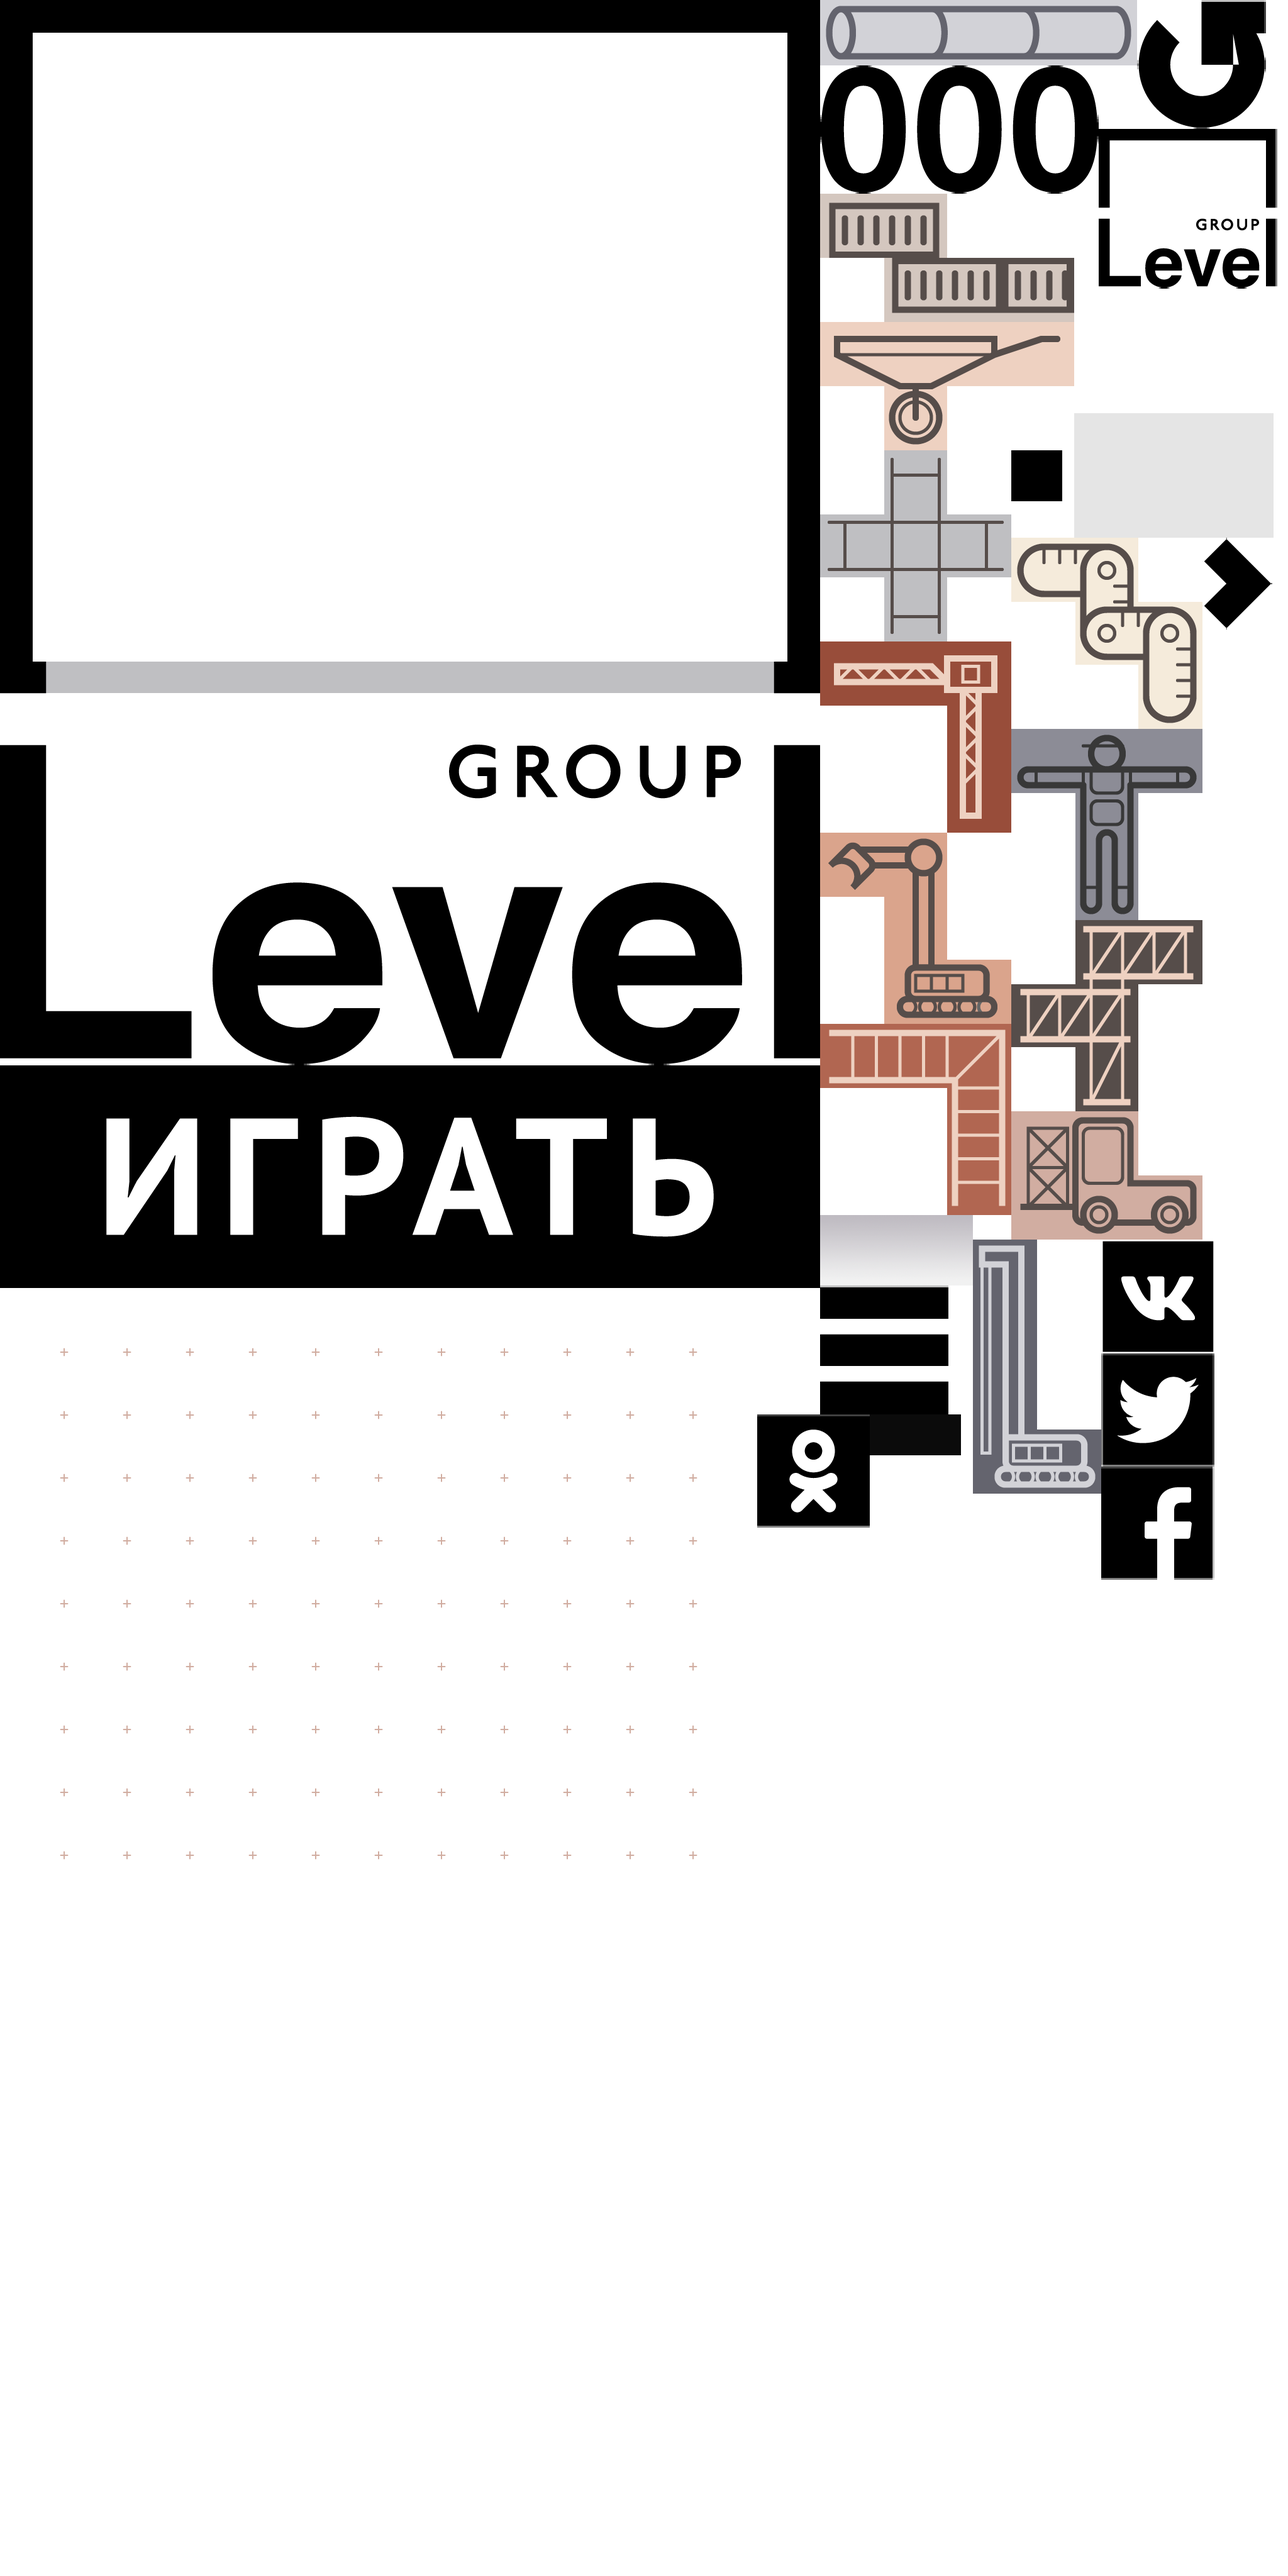
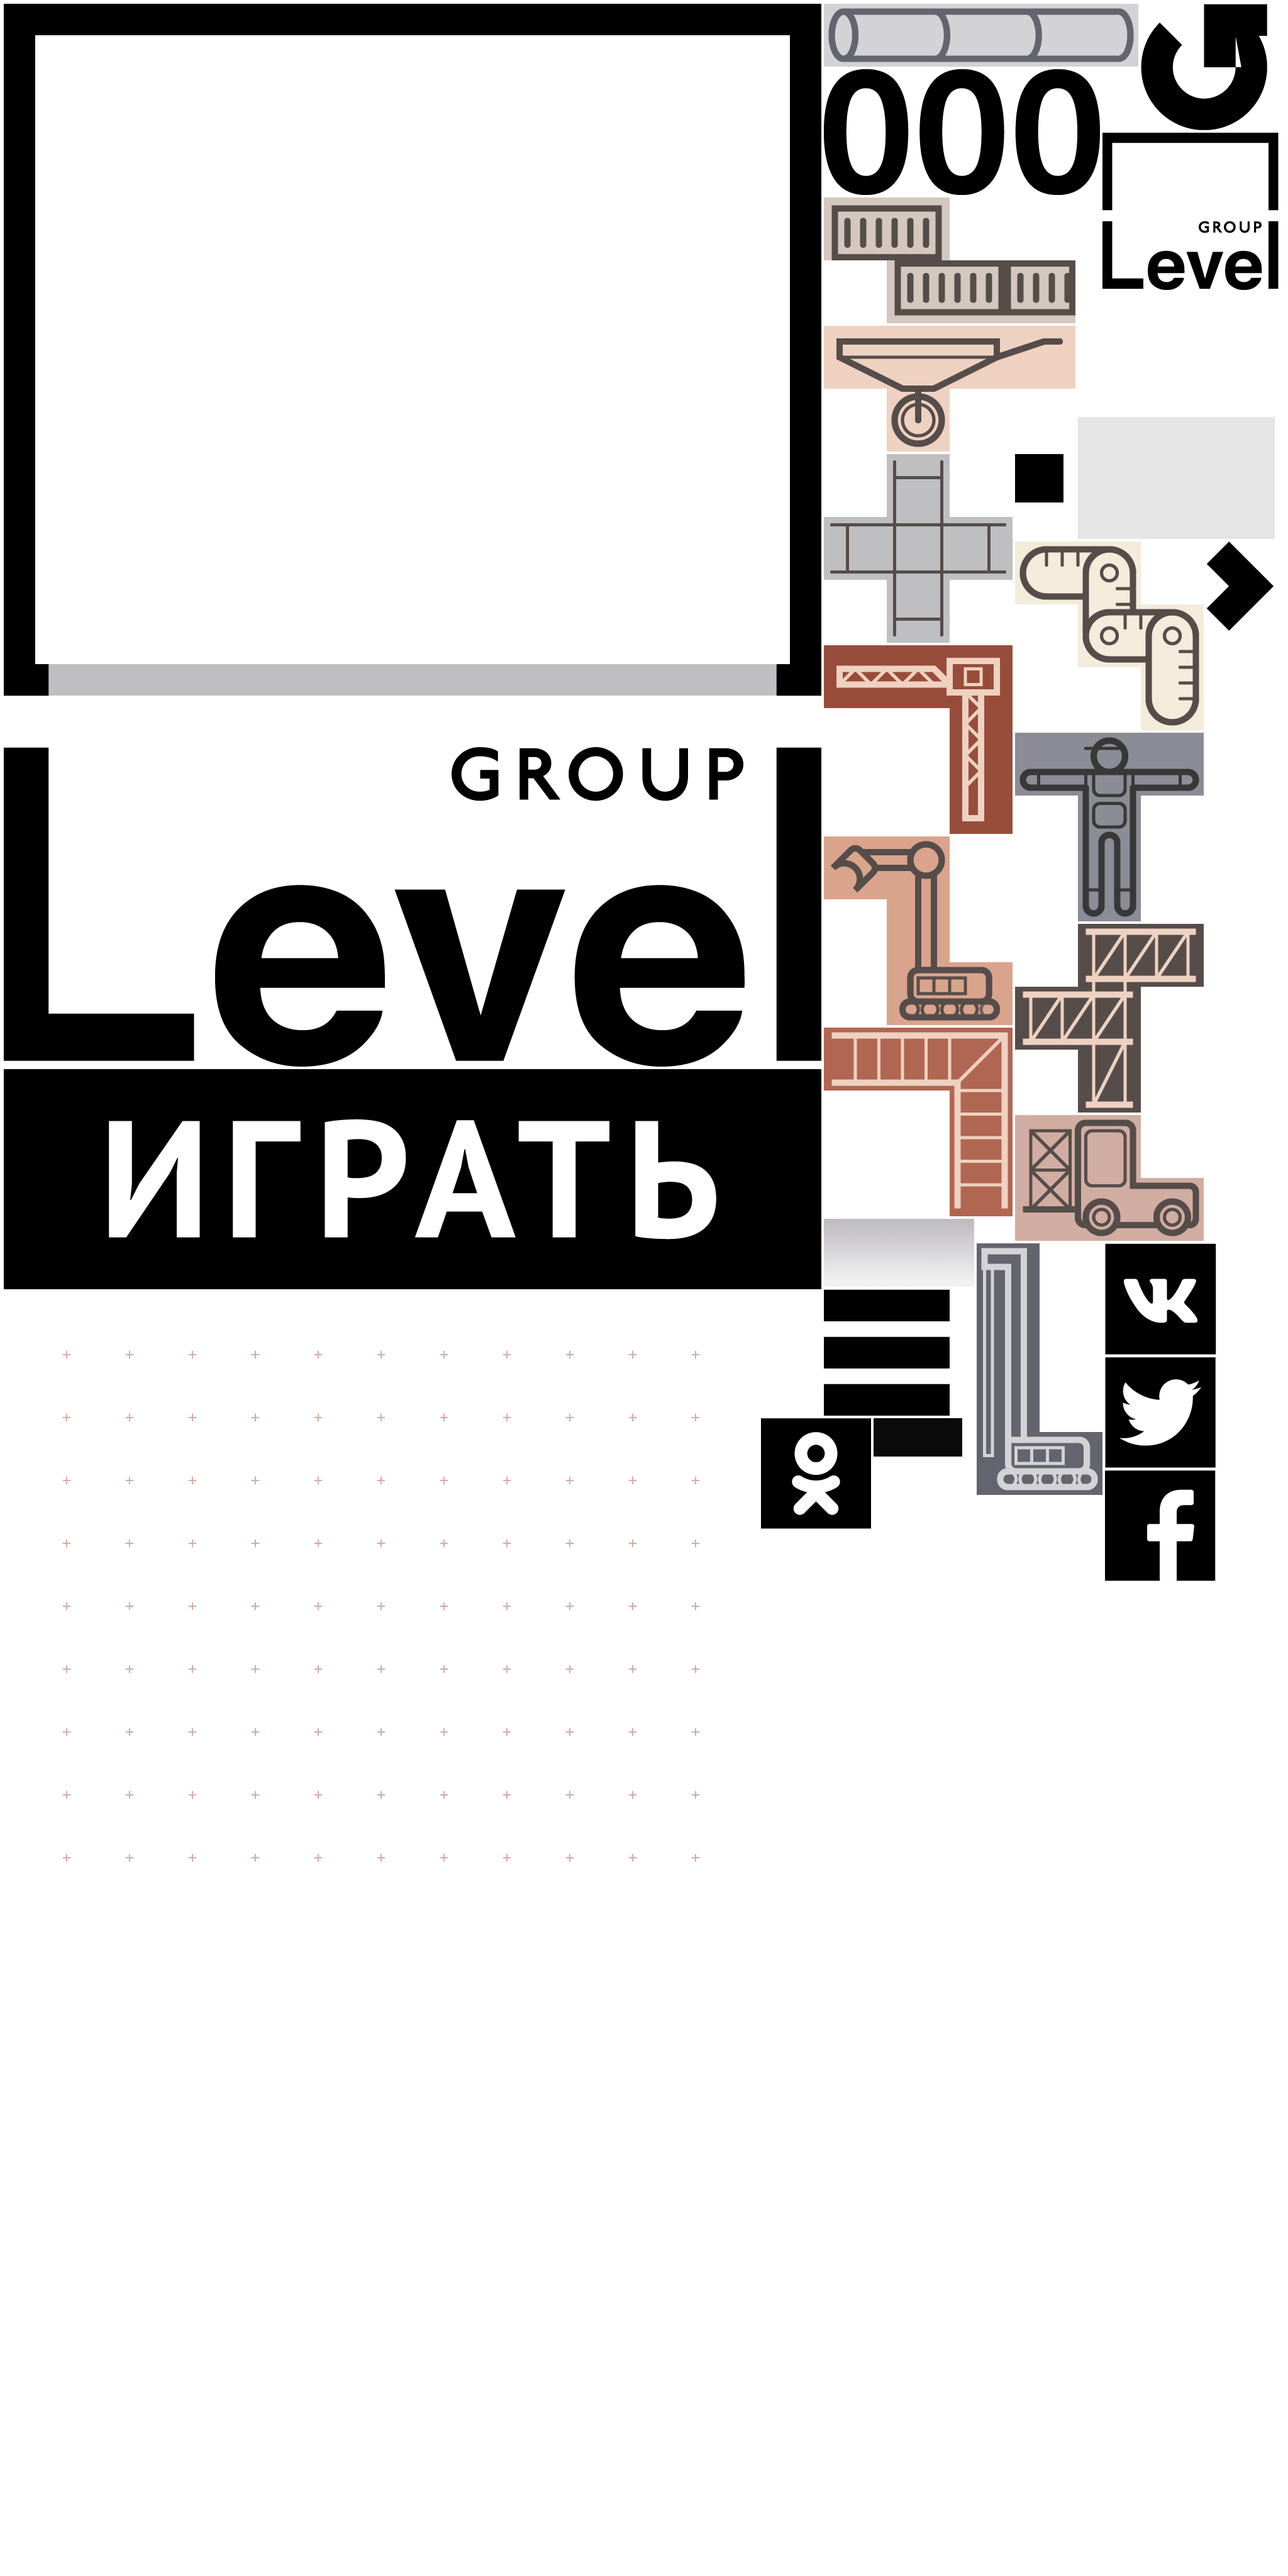
added PIXIRatio

diff --git a/bundle/bundle.js b/bundle/bundle.js
@@ -4078,7 +4078,7 @@ define("main", ["require", "exports", "Sound", "PauseTimer", "lm", "ResourceMana
                 autoStart: true,
                 clearBeforeRender: true,
                 resolution: 1, antialias: false,
-                preserveDrawingBuffer: false, forceFXAA: true, backgroundColor: 0xffffff,
+                preserveDrawingBuffer: false, forceFXAA: false, backgroundColor: 0xffffff,
             });
             document.body.appendChild(this.app.view);
             this.camera = new PIXI.Container();

diff --git a/main.ts b/main.ts
@@ -235,7 +235,7 @@ export class Main {
             autoStart: true,
             clearBeforeRender: true,
             resolution: 1, antialias: false,
-            preserveDrawingBuffer: false, forceFXAA: true, backgroundColor: 0xffffff,
+            preserveDrawingBuffer: false, forceFXAA: false, backgroundColor: 0xffffff,
         });
         document.body.appendChild(this.app.view);
 

diff --git a/index.html b/index.html
@@ -26,7 +26,7 @@
         window.VK_PHOTO_LINK = 'photo2882845_456239374';
         window.LINK_TO_SOCIAL = window.location.origin; //????
         window.FB_APP_ID = '332998647104459';
-        window.PIXIRatio = 0.7;
+        window.PIXIRatio = 0.5;
     </script>
 
     <script src="lib/require.js"></script>
